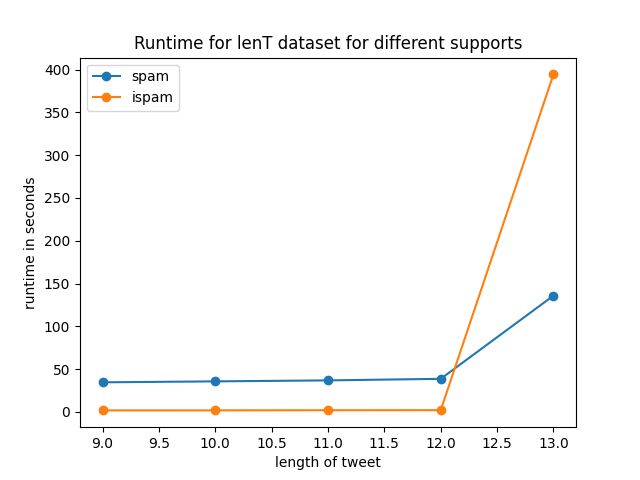
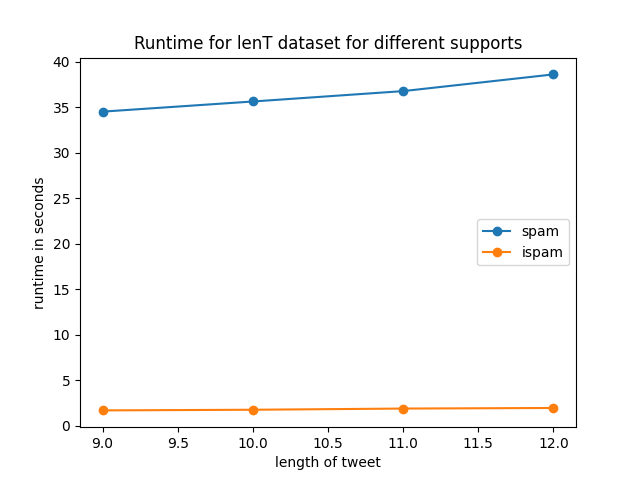
more experiments

diff --git a/experiments_tweets.py b/experiments_tweets.py
@@ -36,7 +36,7 @@ def run_experiment_old(sorted_dataset_Cid_Tid, word_list, minSup, max_number_seq
     return executionTime
 
 
-def run_experiment(sorted_dataset_Cid_Tid, word_list, minSup):
+def run_experiment(sorted_dataset_Cid_Tid, word_list, minSup, plot=False):
     """
 
     :param sorted_dataset_Cid_Tid:
@@ -62,12 +62,13 @@ def run_experiment(sorted_dataset_Cid_Tid, word_list, minSup):
     # print("spam", dict_support)
     print("spam", len(frequent_sequences))
 
-    # plot_frequent_sequence(dict_support)
-    # create_wordcloud(dict_support)
+    if plot:
+        plot_frequent_sequence(dict_support)
+        create_wordcloud(dict_support)
     return executionTime
 
 
-def run_experiment_ispam(dataset_Cid_Tid, list_of_words, minSup):
+def run_experiment_ispam(dataset_Cid_Tid, list_of_words, minSup, plot=False):
     startTime = time.time()
 
     dataset_sequences = dataset_transformation(dataset_Cid_Tid)
@@ -82,8 +83,9 @@ def run_experiment_ispam(dataset_Cid_Tid, list_of_words, minSup):
     # print("ispam", dict_support)
     print("ispam", len(frequent_sequences))
 
-    # plot_frequent_sequence(dict_support)
-    # create_wordcloud(dict_support)
+    if plot:
+        plot_frequent_sequence(dict_support)
+        create_wordcloud(dict_support)
     return executionTime
 
 
@@ -104,6 +106,7 @@ if __name__ == "__main__":
     # medium dataset
     sorted_dataset_Cid_Tid_1000, word_list_1000 = load_dataset(number_of_tweets=1000)
     # large dataset
+    sorted_dataset_Cid_Tid_10000, word_list_10000 = load_dataset(number_of_tweets=10000)
 
     ### experiment 2
     # try SPAM algorithm with first 100 tweets and minimum support of 5
@@ -128,9 +131,9 @@ if __name__ == "__main__":
     minSup_4 = 50
 
     # SPAM
-    spam_runtime = run_experiment(sorted_dataset_Cid_Tid_1000, word_list_1000, minSup_4)
+    spam_runtime = run_experiment(sorted_dataset_Cid_Tid_1000, word_list_1000, minSup_4, plot=True)
     # ISPAM
-    ispam_runtime = run_experiment_ispam(sorted_dataset_Cid_Tid_1000, word_list_1000, minSup_4)
+    ispam_runtime = run_experiment_ispam(sorted_dataset_Cid_Tid_1000, word_list_1000, minSup_4, plot=True)
 
     ### experiment 5:
     # try SPAM algorithm with first 1000 tweets and minimum support of 30
@@ -140,4 +143,13 @@ if __name__ == "__main__":
     spam_runtime = run_experiment(sorted_dataset_Cid_Tid_1000, word_list_1000, minSup_5)
     # ISPAM
     ispam_runtime = run_experiment_ispam(sorted_dataset_Cid_Tid_1000, word_list_1000, minSup_5)
+
+    ### experiment 6:
+    # try SPAM algorithm with first 10000 tweets and minimum support of 200
+
+    minSup_6 = 200
+    # SPAM
+    spam_runtime = run_experiment(sorted_dataset_Cid_Tid_10000, word_list_10000, minSup_6, plot=True)
+    # ISPAM
+    ispam_runtime = run_experiment_ispam(sorted_dataset_Cid_Tid_10000, word_list_10000, minSup_6, plot=True)
 

diff --git a/comparison_analysis_minsup.py b/comparison_analysis_minsup.py
@@ -9,12 +9,12 @@ def plot_analysis(x_list, dataset_name, xlabel):
     y_ispam_runtime = list()
 
     # SPAM
-    with open('spam_' + dataset_name + '.csv') as csv_file:
+    with open('results/spam_' + dataset_name + '.csv') as csv_file:
         csv_reader = csv.reader(csv_file, delimiter=',')
         for row in csv_reader:
             y_spam_runtime.append(row[1])
     # ISPAM
-    with open('ispam_' + dataset_name + '.csv') as csv_file:
+    with open('results/ispam_' + dataset_name + '.csv') as csv_file:
         csv_reader = csv.reader(csv_file, delimiter=',')
         for row in csv_reader:
             y_ispam_runtime.append(row[1])

diff --git a/experiments_dummy_data.py b/experiments_dummy_data.py
@@ -27,4 +27,4 @@ if __name__ == "__main__":
     ]
     ordered_list_of_words = ['a', 'b', 'c', 'd']
 
-    run_experiment(dataset_Cid_Tid, ordered_list_of_words, minSup)
+    run_experiment(dataset_Cid_Tid, ordered_list_of_words, minSup, plot=True)

diff --git a/comparison_analysis_lenT.py b/comparison_analysis_lenT.py
@@ -120,4 +120,4 @@ if __name__ == "__main__":
 
     analysis_to_csv_for_saving(dict_len, "lenT", minSup=75)
 
-    plot_analysis([9, 10, 11, 12, 13], "lenT", "length of tweet")
+    plot_analysis([9, 10, 11, 12], "lenT", "length of tweet")
